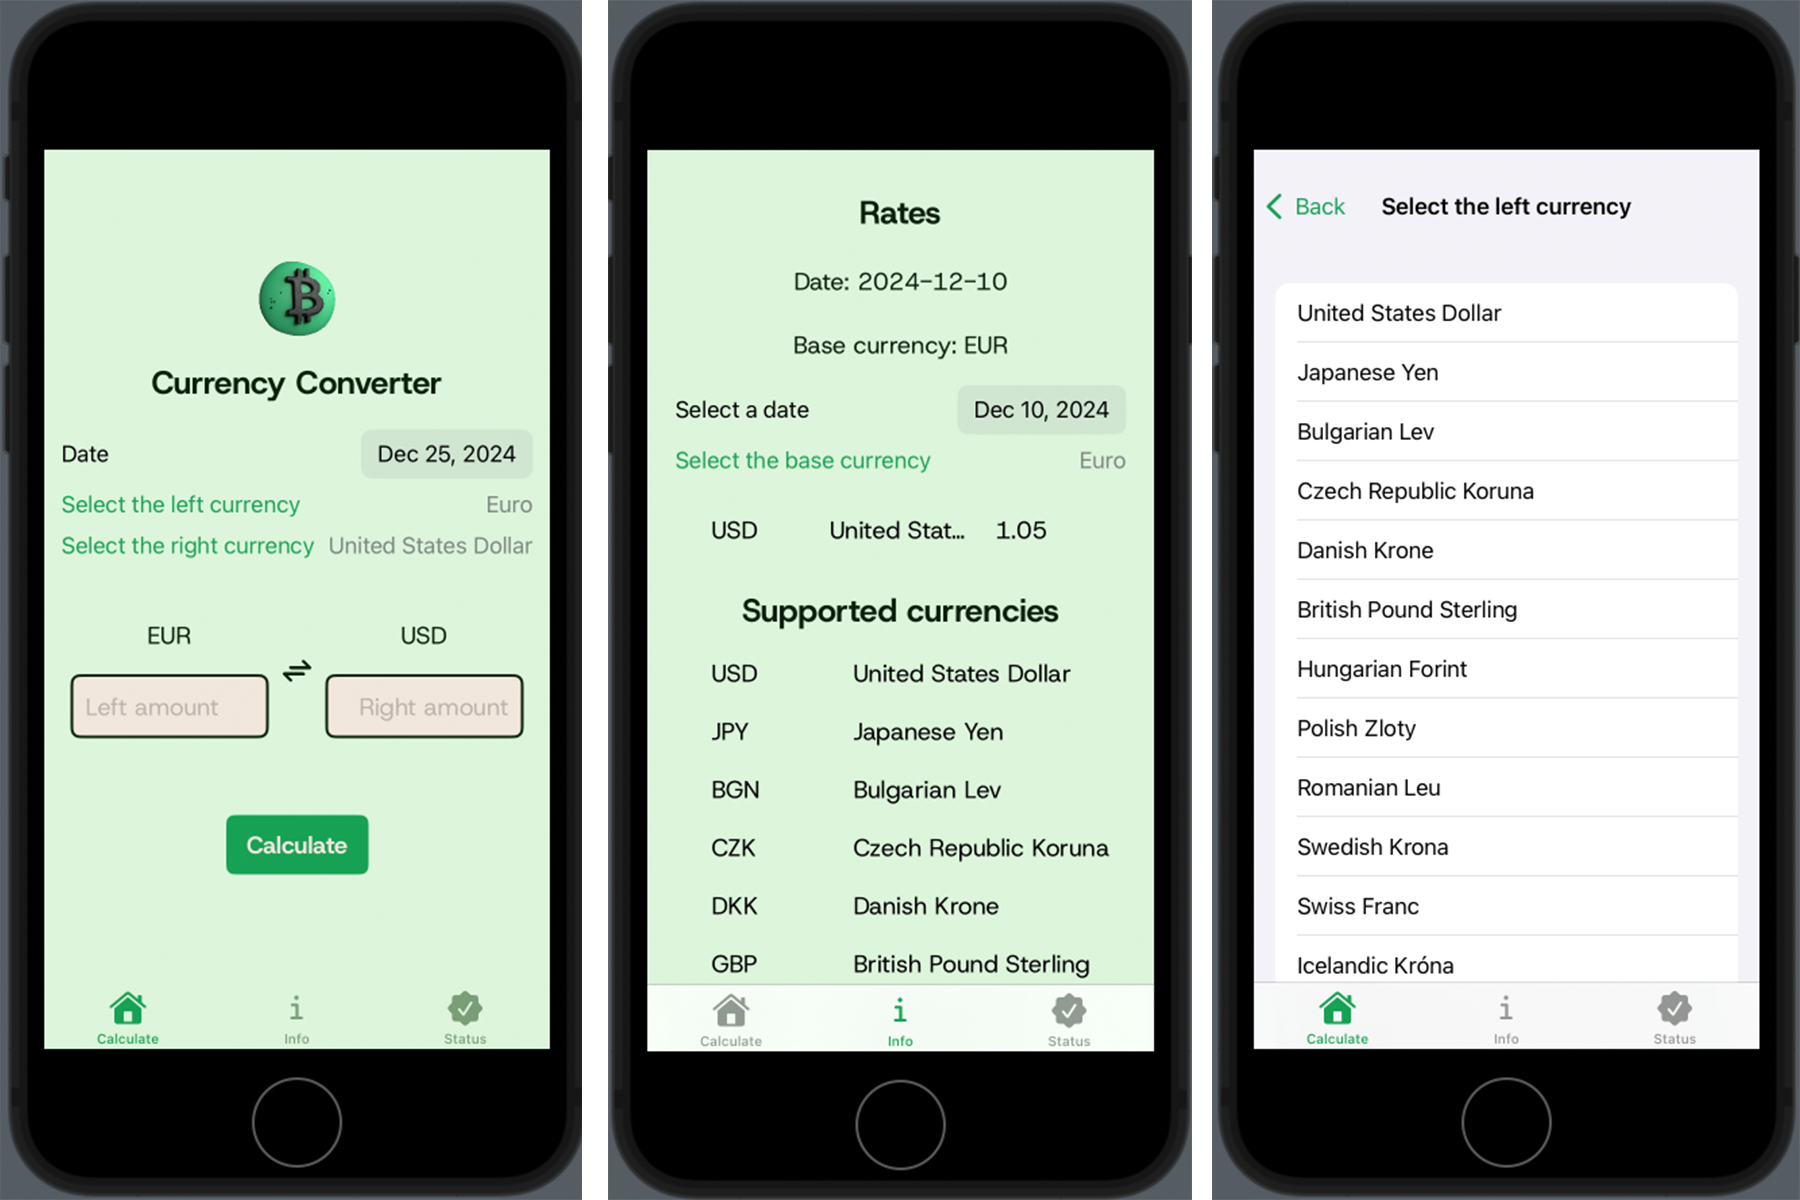
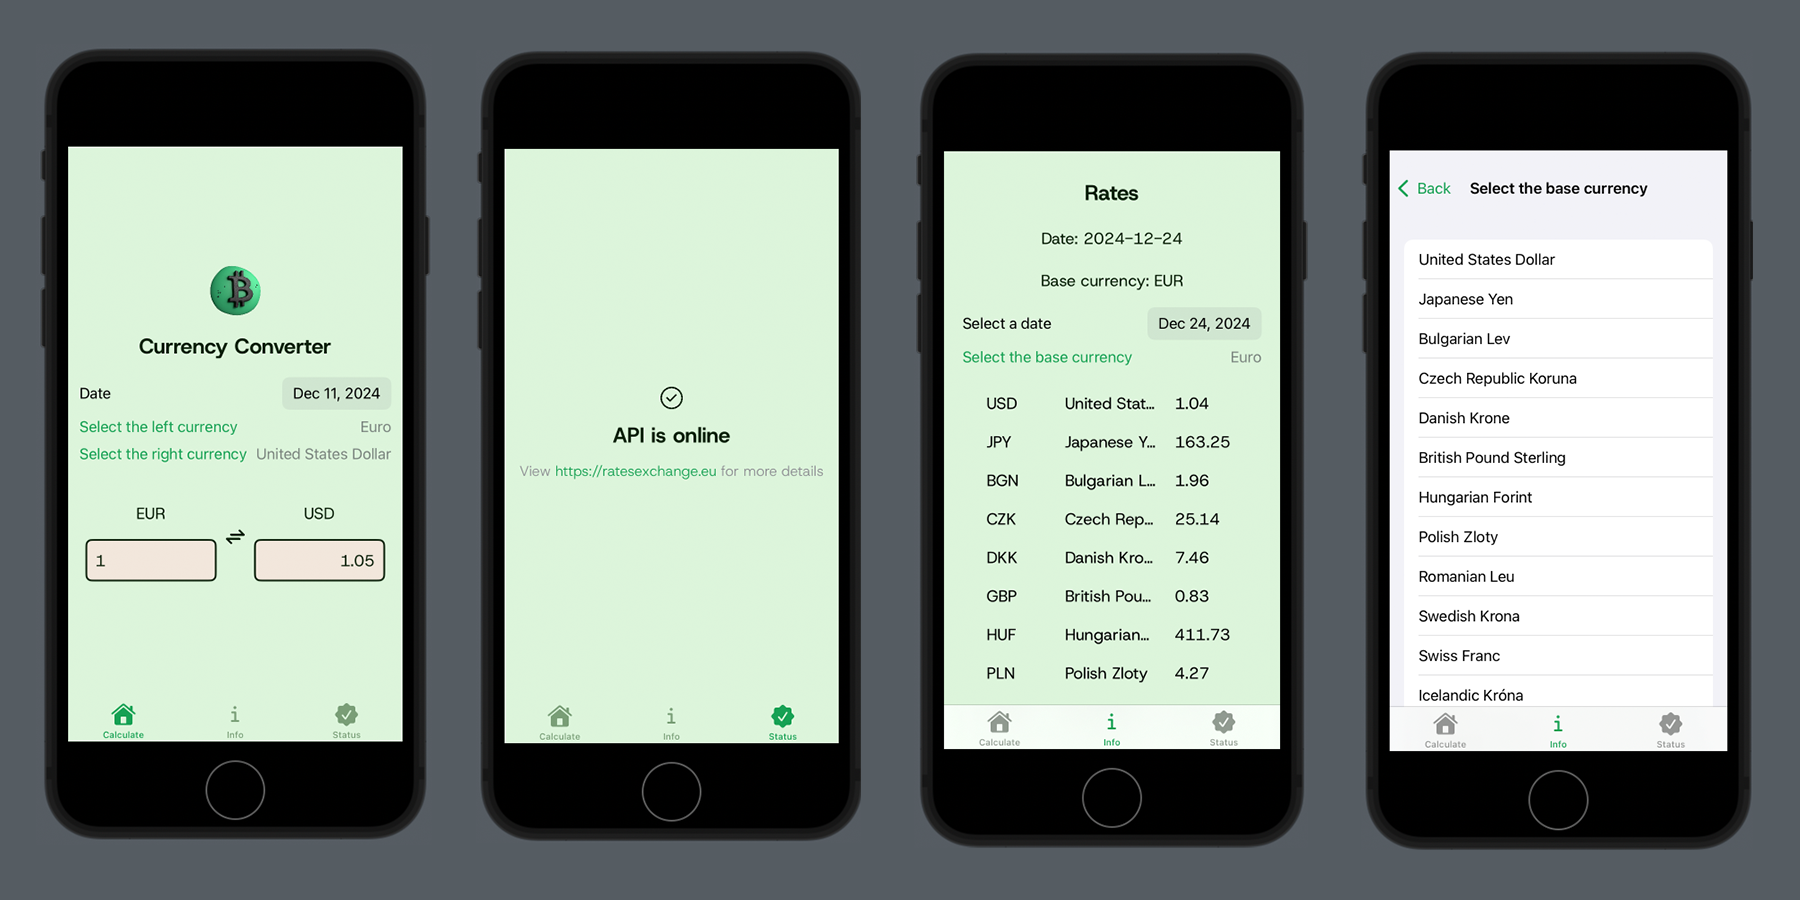
Remove button and calculate value on key type. Fix styling for info view

diff --git a/CurrencyConverter/Views/HomeView.swift b/CurrencyConverter/Views/HomeView.swift
@@ -13,8 +13,10 @@ struct HomeView: View {
     @State var selectedDate: Date = Date.now
     @State var leftAmt = ""
     @State var leftCurrency: String = "EUR"
+    @FocusState var leftTyping
     @State var rightAmt = ""
     @State var rightCurrency: String = "USD"
+    @FocusState var rightTyping
     @State var conversionErrorObj: ErrorModel?
     
     let isCurrencyDataAvailable: Bool
@@ -22,32 +24,83 @@ struct HomeView: View {
     let errorObj: ErrorModel?
     
     // Get conversion result
-    func getConversionResult(from: String, to: String, amount: String, date: Date) {
+    func getConversionResult(from inputCurrency: String,
+                             to outputCurrency: String,
+                             amount: String,
+                             date ratesDate: Date,
+                             side inputSide: Bool) {
+        
+        guard StringFormatters.isStringValidNumber(amount) else { return }
+        
         statusIndicator.startAnimating()
         
-        let dateStr = StringFormatters.convertDateToString(date: date)
+        let dateStr = StringFormatters.convertDateToString(date: ratesDate)
         
-        let url = Routes.convertDetailsUrl + "&from=\(from)&currencies=\(to)&amount=\(amount)&date=\(dateStr)"
+        let url = Routes.convertDetailsUrl + "&from=\(inputCurrency)&currencies=\(outputCurrency)&amount=\(amount)&date=\(dateStr)"
         
         APIService.fetchData(urlString: url) {
             (response: ConversionDetailsModel?, error: ErrorModel?) in
             
             if let error = error {
                 self.conversionErrorObj = error
+                clearAll()
             }
             
             if response != nil && !response!.rates.isEmpty {
-                self.conversionErrorObj = nil 
-                rightAmt = StringFormatters.doubleToString(number: response!.rates.first!.value)
+                self.conversionErrorObj = nil
+                let result = StringFormatters.doubleToString(number: response!.rates.first!.value)
+                if (inputSide) {
+                    self.rightAmt = result
+                }
+                else {
+                    self.leftAmt = result
+                }
             }
             else {
                 self.conversionErrorObj = ErrorModel(code: "400",
                                                      message: "Rates unavailable for the selected date and currencies. Please select another date/currencies.")
+                clearAll()
             }
             
             self.statusIndicator.dismissLoader()
         }
+    }
+    
+    // Clear all fields
+    func clearAll() {
+        self.leftAmt = ""
+        self.rightAmt = ""
+    }
+    
+    // Set the right side amount
+    func setRight() {
+        getConversionResult(from: leftCurrency.lowercased(),
+                            to: rightCurrency.lowercased(),
+                            amount: leftAmt,
+                            date: selectedDate,
+                            side: true)
+    }
+    
+    // Set the left side amount
+    func setLeft() {
+        getConversionResult(from: rightCurrency.lowercased(),
+                            to: leftCurrency.lowercased(),
+                            amount: rightAmt,
+                            date: selectedDate,
+                            side: false)
+    }
+    
+    // Swap the left and right sides 
+    func swap() {
+        // Swap the values
+        let tempAmt: String = leftAmt
+        leftAmt = rightAmt
+        rightAmt = tempAmt
         
+        // Swap the currencies
+        let tempCurrency: String = leftCurrency
+        leftCurrency = rightCurrency
+        rightCurrency = tempCurrency
     }
     
     var body: some View {
@@ -103,14 +156,18 @@ struct HomeView: View {
                             TextField("Left amount",
                                       text: $leftAmt)
                                 .textFieldStyle(CustomTextFieldStyle())
-                                
+                                .focused($leftTyping)
                         }
-                        // Equal
+                        
+                        // Swap
                         Image(.exchange)
                             .resizable()
                             .scaledToFit()
                             .frame(height: 28)
                             .foregroundColor(.text)
+                            .onTapGesture {
+                                swap()
+                            }
                         
                         // Right side: Output
                         VStack {
@@ -121,25 +178,45 @@ struct HomeView: View {
                             TextField("Right amount", text: $rightAmt)
                                 .textFieldStyle(CustomTextFieldStyle())
                                 .multilineTextAlignment(.trailing)
-                                .disabled(true)
+                                .focused($rightTyping)
                         }
                         
                         Spacer()
                     }.padding([.top, .bottom], 25)
                     
-                    Button("Calculate") {
-                        getConversionResult(from: leftCurrency.lowercased(),
-                                            to: rightCurrency.lowercased(),
-                                            amount: leftAmt,
-                                            date: selectedDate)
-                    }
-                    .disabled(!StringFormatters.isStringValidNumber(numString: leftAmt))
-                    .buttonStyle(PrimaryButton())
-                    .padding(25)
-                    
                     if (conversionErrorObj != nil) {
                         ErrorMessageView(errorObj: conversionErrorObj)
                     }
+                }
+                .onChange(of: leftAmt) {
+                    if (leftTyping) {
+                        setRight()
+                        rightAmt = leftAmt == "" ? "" : rightAmt
+                    }
+                }
+                .onChange(of: rightAmt) {
+                    if (rightTyping) {
+                        setLeft()
+                        leftAmt = rightAmt == "" ? "" : leftAmt
+                    }
+                }
+                .onChange(of: selectedDate) {
+                    conversionErrorObj = nil
+                    
+                    if (leftTyping)
+                    {
+                        setRight()
+                    }
+                    else
+                    {
+                        setLeft()
+                    }
+                }
+                .onChange(of: leftCurrency) {
+                    setLeft()
+                }
+                .onChange(of: rightCurrency) {
+                    setRight()
                 }
                 .frame(width: 350)
             }

diff --git a/CurrencyConverter/Views/ErrorMessageView.swift b/CurrencyConverter/Views/ErrorMessageView.swift
@@ -17,12 +17,12 @@ struct ErrorMessageView: View {
                 Text("An error occurred: \(errorObj!.code)").regular()
                     .fixedSize(horizontal: false, vertical: true)
                     .padding(10)
-                Text(errorObj!.message).caption()
+                Text(errorObj!.message).caption().fixedSize(horizontal: false, vertical: true)
             }
             else {
                 Text("An error occurred").regular().fixedSize(horizontal: false, vertical: true)
                     .padding(10)
-                Text("Please try again later.").caption()
+                Text("Please try again later.").caption().fixedSize(horizontal: false, vertical: true)
             }
         }
         .multilineTextAlignment(.center)

diff --git a/CurrencyConverter/Views/InfoView.swift b/CurrencyConverter/Views/InfoView.swift
@@ -19,7 +19,7 @@ struct InfoView: View {
                 // Background color
                 Color.pastelGreen.ignoresSafeArea()
                 
-                VStack {
+                ScrollView {
                     // Display current rates
                     RatesView(currencies: self.currencies,
                               isCurrencyDataAvailable: self.isCurrencyDataAvailable,
@@ -30,6 +30,7 @@ struct InfoView: View {
                                    isDataAvailable: self.isCurrencyDataAvailable,
                                    errorObj: self.errorObj)
                 }
+                .frame(maxHeight: .infinity)
             }
         }
         .pickerStyle(.navigationLink)

diff --git a/CurrencyConverter/Views/CurrenciesView.swift b/CurrencyConverter/Views/CurrenciesView.swift
@@ -34,10 +34,11 @@ struct CurrenciesView: View {
                                         description: currencies![idx].description)
                     }
                 }
-                .list() 
+                .list()
+                .contentMargins([.top, .bottom], 20)
+                .frame(minHeight: 400, maxHeight: 400)
             }
         }
-        
     }
 }
 

diff --git a/CurrencyConverter/Utilities/StringFormatters.swift b/CurrencyConverter/Utilities/StringFormatters.swift
@@ -30,7 +30,7 @@ struct StringFormatters {
     }
     
     // Check if the number is valid
-    static func isStringValidNumber(numString: String) -> Bool {
+    static func isStringValidNumber(_ numString: String) -> Bool {
         return numString.isNumber
     }
 }

diff --git a/CurrencyConverter/Views/RatesView.swift b/CurrencyConverter/Views/RatesView.swift
@@ -124,6 +124,7 @@ struct RatesView: View {
                     }
                     .list()
                     .contentMargins([.top, .bottom], 20)
+                    .frame(minHeight: 400, maxHeight: 400)
                 }
             }
         }

diff --git a/CurrencyConverter/Models/CurrencyModel.swift b/CurrencyConverter/Models/CurrencyModel.swift
@@ -9,5 +9,5 @@
 // Params: apiKey
 struct CurrencyModel: Decodable {    
     let symbol: String
-    let description: String 
+    let description: String
 }

diff --git a/README.md b/README.md
@@ -46,11 +46,15 @@
 ## Demo
 
 <div align="center">
-  <video src="https://github.com/user-attachments/assets/8fe40ca7-05c6-490f-b564-f598c3dbaf57"
+  <video src="https://github.com/user-attachments/assets/071f37ce-5ec6-4242-99c2-77b252f2fac8"
          width="320">
 </div>
 
 ### Screen layouts
+
+<img align="center" src="Public/all.png" margin="10px auto"/>
+
+<p align="center">Different formats</p>
 
 <img align="center" src="Public/ip_16.png" margin="10px auto"/>
 
@@ -63,7 +67,7 @@
 <!-- ABOUT THE PROJECT -->
 ## About The Project
 
-This is my first attempt at making a SwiftUI app! Using the [RatesExchange API](https://ratesexchange.eu/Docs), I created a simple currency converter app that fetches currency data from the API, and rendered those to view. The endpoints I utilized throughout this project include: 
+This is my first attempt at making a SwiftUI app! In an attempt to make this not a simple calculator app, I created a simple currency converter app that fetches currency data from the [Rates Exchange API](https://ratesexchange.eu/Docs), and rendered those to view. The endpoints I utilized throughout this project include: 
 
 - `/client/checkapi`: Check API status
 - `/client/historydetails`: Get detailed history rates
@@ -74,8 +78,16 @@ This is my first attempt at making a SwiftUI app! Using the [RatesExchange API](
 
 <p align="right">(<a href="#top">back to top</a>)</p>
 
+### Features
+
+- [x] Convert an amount to and from 2 currencies by a specific date 
+- [x] View all available currencies and rates by date 
+
+<p align="right">(<a href="#top">back to top</a>)</p>
+
 ### Built With
 
+- XCode 16.2
 - [SwiftUI](https://developer.apple.com/xcode/swiftui/)
 - [Rates Exchange API](https://ratesexchange.eu/)
 
@@ -140,7 +152,3 @@ If you can use another method to store the API key securely, please do so :)
 ## Contact
 
 Email: <a href="mailto:do24l@mtholyoke.edu">do24l@mtholyoke.edu</a>
-
-
-
-
